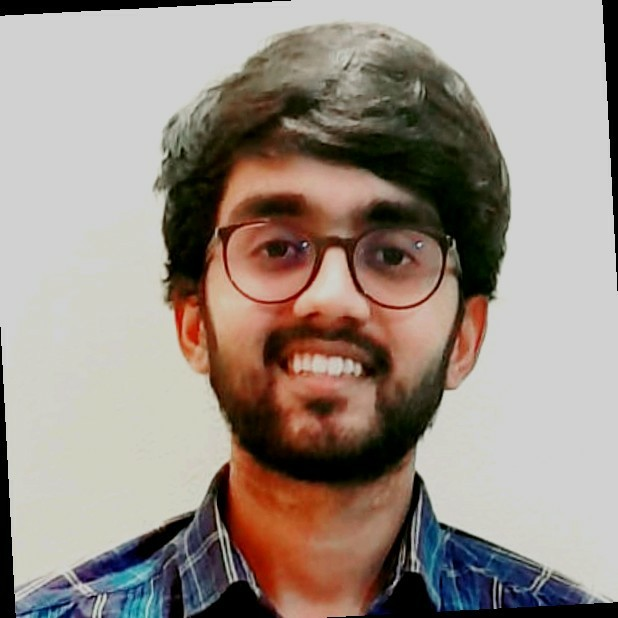
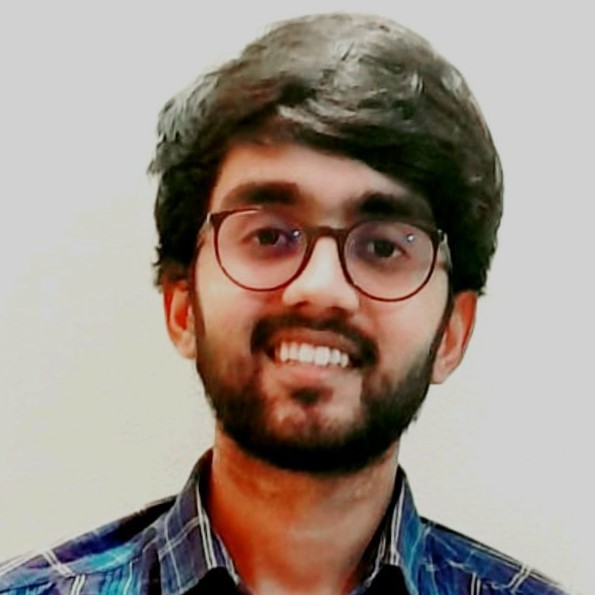
minor quality changes

Changed region(s): [[0.0, 0.0, 1.0, 1.0], [0.9681, 0.0, 1.0, 0.484], [0.0, 0.0, 0.4235, 0.0303]]

diff --git a/VData/static/js/prism.js b/VData/static/js/prism.js
@@ -1,0 +1,4 @@
+/* PrismJS 1.29.0
+https://prismjs.com/download.html#themes=prism-solarizedlight&languages=python */
+var _self="undefined"!=typeof window?window:"undefined"!=typeof WorkerGlobalScope&&self instanceof WorkerGlobalScope?self:{},Prism=function(e){var n=/(?:^|\s)lang(?:uage)?-([\w-]+)(?=\s|$)/i,t=0,r={},a={manual:e.Prism&&e.Prism.manual,disableWorkerMessageHandler:e.Prism&&e.Prism.disableWorkerMessageHandler,util:{encode:function e(n){return n instanceof i?new i(n.type,e(n.content),n.alias):Array.isArray(n)?n.map(e):n.replace(/&/g,"&amp;").replace(/</g,"&lt;").replace(/\u00a0/g," ")},type:function(e){return Object.prototype.toString.call(e).slice(8,-1)},objId:function(e){return e.__id||Object.defineProperty(e,"__id",{value:++t}),e.__id},clone:function e(n,t){var r,i;switch(t=t||{},a.util.type(n)){case"Object":if(i=a.util.objId(n),t[i])return t[i];for(var l in r={},t[i]=r,n)n.hasOwnProperty(l)&&(r[l]=e(n[l],t));return r;case"Array":return i=a.util.objId(n),t[i]?t[i]:(r=[],t[i]=r,n.forEach((function(n,a){r[a]=e(n,t)})),r);default:return n}},getLanguage:function(e){for(;e;){var t=n.exec(e.className);if(t)return t[1].toLowerCase();e=e.parentElement}return"none"},setLanguage:function(e,t){e.className=e.className.replace(RegExp(n,"gi"),""),e.classList.add("language-"+t)},currentScript:function(){if("undefined"==typeof document)return null;if("currentScript"in document)return document.currentScript;try{throw new Error}catch(r){var e=(/at [^(\r\n]*\((.*):[^:]+:[^:]+\)$/i.exec(r.stack)||[])[1];if(e){var n=document.getElementsByTagName("script");for(var t in n)if(n[t].src==e)return n[t]}return null}},isActive:function(e,n,t){for(var r="no-"+n;e;){var a=e.classList;if(a.contains(n))return!0;if(a.contains(r))return!1;e=e.parentElement}return!!t}},languages:{plain:r,plaintext:r,text:r,txt:r,extend:function(e,n){var t=a.util.clone(a.languages[e]);for(var r in n)t[r]=n[r];return t},insertBefore:function(e,n,t,r){var i=(r=r||a.languages)[e],l={};for(var o in i)if(i.hasOwnProperty(o)){if(o==n)for(var s in t)t.hasOwnProperty(s)&&(l[s]=t[s]);t.hasOwnProperty(o)||(l[o]=i[o])}var u=r[e];return r[e]=l,a.languages.DFS(a.languages,(function(n,t){t===u&&n!=e&&(this[n]=l)})),l},DFS:function e(n,t,r,i){i=i||{};var l=a.util.objId;for(var o in n)if(n.hasOwnProperty(o)){t.call(n,o,n[o],r||o);var s=n[o],u=a.util.type(s);"Object"!==u||i[l(s)]?"Array"!==u||i[l(s)]||(i[l(s)]=!0,e(s,t,o,i)):(i[l(s)]=!0,e(s,t,null,i))}}},plugins:{},highlightAll:function(e,n){a.highlightAllUnder(document,e,n)},highlightAllUnder:function(e,n,t){var r={callback:t,container:e,selector:'code[class*="language-"], [class*="language-"] code, code[class*="lang-"], [class*="lang-"] code'};a.hooks.run("before-highlightall",r),r.elements=Array.prototype.slice.apply(r.container.querySelectorAll(r.selector)),a.hooks.run("before-all-elements-highlight",r);for(var i,l=0;i=r.elements[l++];)a.highlightElement(i,!0===n,r.callback)},highlightElement:function(n,t,r){var i=a.util.getLanguage(n),l=a.languages[i];a.util.setLanguage(n,i);var o=n.parentElement;o&&"pre"===o.nodeName.toLowerCase()&&a.util.setLanguage(o,i);var s={element:n,language:i,grammar:l,code:n.textContent};function u(e){s.highlightedCode=e,a.hooks.run("before-insert",s),s.element.innerHTML=s.highlightedCode,a.hooks.run("after-highlight",s),a.hooks.run("complete",s),r&&r.call(s.element)}if(a.hooks.run("before-sanity-check",s),(o=s.element.parentElement)&&"pre"===o.nodeName.toLowerCase()&&!o.hasAttribute("tabindex")&&o.setAttribute("tabindex","0"),!s.code)return a.hooks.run("complete",s),void(r&&r.call(s.element));if(a.hooks.run("before-highlight",s),s.grammar)if(t&&e.Worker){var c=new Worker(a.filename);c.onmessage=function(e){u(e.data)},c.postMessage(JSON.stringify({language:s.language,code:s.code,immediateClose:!0}))}else u(a.highlight(s.code,s.grammar,s.language));else u(a.util.encode(s.code))},highlight:function(e,n,t){var r={code:e,grammar:n,language:t};if(a.hooks.run("before-tokenize",r),!r.grammar)throw new Error('The language "'+r.language+'" has no grammar.');return r.tokens=a.tokenize(r.code,r.grammar),a.hooks.run("after-tokenize",r),i.stringify(a.util.encode(r.tokens),r.language)},tokenize:function(e,n){var t=n.rest;if(t){for(var r in t)n[r]=t[r];delete n.rest}var a=new s;return u(a,a.head,e),o(e,a,n,a.head,0),function(e){for(var n=[],t=e.head.next;t!==e.tail;)n.push(t.value),t=t.next;return n}(a)},hooks:{all:{},add:function(e,n){var t=a.hooks.all;t[e]=t[e]||[],t[e].push(n)},run:function(e,n){var t=a.hooks.all[e];if(t&&t.length)for(var r,i=0;r=t[i++];)r(n)}},Token:i};function i(e,n,t,r){this.type=e,this.content=n,this.alias=t,this.length=0|(r||"").length}function l(e,n,t,r){e.lastIndex=n;var a=e.exec(t);if(a&&r&&a[1]){var i=a[1].length;a.index+=i,a[0]=a[0].slice(i)}return a}function o(e,n,t,r,s,g){for(var f in t)if(t.hasOwnProperty(f)&&t[f]){var h=t[f];h=Array.isArray(h)?h:[h];for(var d=0;d<h.length;++d){if(g&&g.cause==f+","+d)return;var v=h[d],p=v.inside,m=!!v.lookbehind,y=!!v.greedy,k=v.alias;if(y&&!v.pattern.global){var x=v.pattern.toString().match(/[imsuy]*$/)[0];v.pattern=RegExp(v.pattern.source,x+"g")}for(var b=v.pattern||v,w=r.next,A=s;w!==n.tail&&!(g&&A>=g.reach);A+=w.value.length,w=w.next){var E=w.value;if(n.length>e.length)return;if(!(E instanceof i)){var P,L=1;if(y){if(!(P=l(b,A,e,m))||P.index>=e.length)break;var S=P.index,O=P.index+P[0].length,j=A;for(j+=w.value.length;S>=j;)j+=(w=w.next).value.length;if(A=j-=w.value.length,w.value instanceof i)continue;for(var C=w;C!==n.tail&&(j<O||"string"==typeof C.value);C=C.next)L++,j+=C.value.length;L--,E=e.slice(A,j),P.index-=A}else if(!(P=l(b,0,E,m)))continue;S=P.index;var N=P[0],_=E.slice(0,S),M=E.slice(S+N.length),W=A+E.length;g&&W>g.reach&&(g.reach=W);var z=w.prev;if(_&&(z=u(n,z,_),A+=_.length),c(n,z,L),w=u(n,z,new i(f,p?a.tokenize(N,p):N,k,N)),M&&u(n,w,M),L>1){var I={cause:f+","+d,reach:W};o(e,n,t,w.prev,A,I),g&&I.reach>g.reach&&(g.reach=I.reach)}}}}}}function s(){var e={value:null,prev:null,next:null},n={value:null,prev:e,next:null};e.next=n,this.head=e,this.tail=n,this.length=0}function u(e,n,t){var r=n.next,a={value:t,prev:n,next:r};return n.next=a,r.prev=a,e.length++,a}function c(e,n,t){for(var r=n.next,a=0;a<t&&r!==e.tail;a++)r=r.next;n.next=r,r.prev=n,e.length-=a}if(e.Prism=a,i.stringify=function e(n,t){if("string"==typeof n)return n;if(Array.isArray(n)){var r="";return n.forEach((function(n){r+=e(n,t)})),r}var i={type:n.type,content:e(n.content,t),tag:"span",classes:["token",n.type],attributes:{},language:t},l=n.alias;l&&(Array.isArray(l)?Array.prototype.push.apply(i.classes,l):i.classes.push(l)),a.hooks.run("wrap",i);var o="";for(var s in i.attributes)o+=" "+s+'="'+(i.attributes[s]||"").replace(/"/g,"&quot;")+'"';return"<"+i.tag+' class="'+i.classes.join(" ")+'"'+o+">"+i.content+"</"+i.tag+">"},!e.document)return e.addEventListener?(a.disableWorkerMessageHandler||e.addEventListener("message",(function(n){var t=JSON.parse(n.data),r=t.language,i=t.code,l=t.immediateClose;e.postMessage(a.highlight(i,a.languages[r],r)),l&&e.close()}),!1),a):a;var g=a.util.currentScript();function f(){a.manual||a.highlightAll()}if(g&&(a.filename=g.src,g.hasAttribute("data-manual")&&(a.manual=!0)),!a.manual){var h=document.readyState;"loading"===h||"interactive"===h&&g&&g.defer?document.addEventListener("DOMContentLoaded",f):window.requestAnimationFrame?window.requestAnimationFrame(f):window.setTimeout(f,16)}return a}(_self);"undefined"!=typeof module&&module.exports&&(module.exports=Prism),"undefined"!=typeof global&&(global.Prism=Prism);
+Prism.languages.python={comment:{pattern:/(^|[^\\])#.*/,lookbehind:!0,greedy:!0},"string-interpolation":{pattern:/(?:f|fr|rf)(?:("""|''')[\s\S]*?\1|("|')(?:\\.|(?!\2)[^\\\r\n])*\2)/i,greedy:!0,inside:{interpolation:{pattern:/((?:^|[^{])(?:\{\{)*)\{(?!\{)(?:[^{}]|\{(?!\{)(?:[^{}]|\{(?!\{)(?:[^{}])+\})+\})+\}/,lookbehind:!0,inside:{"format-spec":{pattern:/(:)[^:(){}]+(?=\}$)/,lookbehind:!0},"conversion-option":{pattern:/![sra](?=[:}]$)/,alias:"punctuation"},rest:null}},string:/[\s\S]+/}},"triple-quoted-string":{pattern:/(?:[rub]|br|rb)?("""|''')[\s\S]*?\1/i,greedy:!0,alias:"string"},string:{pattern:/(?:[rub]|br|rb)?("|')(?:\\.|(?!\1)[^\\\r\n])*\1/i,greedy:!0},function:{pattern:/((?:^|\s)def[ \t]+)[a-zA-Z_]\w*(?=\s*\()/g,lookbehind:!0},"class-name":{pattern:/(\bclass\s+)\w+/i,lookbehind:!0},decorator:{pattern:/(^[\t ]*)@\w+(?:\.\w+)*/m,lookbehind:!0,alias:["annotation","punctuation"],inside:{punctuation:/\./}},keyword:/\b(?:_(?=\s*:)|and|as|assert|async|await|break|case|class|continue|def|del|elif|else|except|exec|finally|for|from|global|if|import|in|is|lambda|match|nonlocal|not|or|pass|print|raise|return|try|while|with|yield)\b/,builtin:/\b(?:__import__|abs|all|any|apply|ascii|basestring|bin|bool|buffer|bytearray|bytes|callable|chr|classmethod|cmp|coerce|compile|complex|delattr|dict|dir|divmod|enumerate|eval|execfile|file|filter|float|format|frozenset|getattr|globals|hasattr|hash|help|hex|id|input|int|intern|isinstance|issubclass|iter|len|list|locals|long|map|max|memoryview|min|next|object|oct|open|ord|pow|property|range|raw_input|reduce|reload|repr|reversed|round|set|setattr|slice|sorted|staticmethod|str|sum|super|tuple|type|unichr|unicode|vars|xrange|zip)\b/,boolean:/\b(?:False|None|True)\b/,number:/\b0(?:b(?:_?[01])+|o(?:_?[0-7])+|x(?:_?[a-f0-9])+)\b|(?:\b\d+(?:_\d+)*(?:\.(?:\d+(?:_\d+)*)?)?|\B\.\d+(?:_\d+)*)(?:e[+-]?\d+(?:_\d+)*)?j?(?!\w)/i,operator:/[-+%=]=?|!=|:=|\*\*?=?|\/\/?=?|<[<=>]?|>[=>]?|[&|^~]/,punctuation:/[{}[\];(),.:]/},Prism.languages.python["string-interpolation"].inside.interpolation.inside.rest=Prism.languages.python,Prism.languages.py=Prism.languages.python;

diff --git a/VData/static/css/prism.css b/VData/static/css/prism.css
@@ -1,0 +1,167 @@
+/**
+ * VS theme by Andrew Lock (https://andrewlock.net)
+ * Inspired by Visual Studio syntax coloring
+ */
+
+ code[class*="language-"],
+ pre[class*="language-"] {
+     color: #393A34;
+     font-family: "Consolas", "Bitstream Vera Sans Mono", "Courier New", Courier, monospace;
+     direction: ltr;
+     text-align: left;
+     white-space: pre;
+     word-spacing: normal;
+     word-break: normal;
+     font-size: .9em;
+     line-height: 1.2em;
+ 
+     -moz-tab-size: 4;
+     -o-tab-size: 4;
+     tab-size: 4;
+ 
+     -webkit-hyphens: none;
+     -moz-hyphens: none;
+     -ms-hyphens: none;
+     hyphens: none;
+ }
+ 
+ pre > code[class*="language-"] {
+     font-size: 1em;
+ }
+ 
+ pre[class*="language-"]::-moz-selection, pre[class*="language-"] ::-moz-selection,
+ code[class*="language-"]::-moz-selection, code[class*="language-"] ::-moz-selection {
+     background: #C1DEF1;
+ }
+ 
+ pre[class*="language-"]::selection, pre[class*="language-"] ::selection,
+ code[class*="language-"]::selection, code[class*="language-"] ::selection {
+     background: #C1DEF1;
+ }
+ 
+ /* Code blocks */
+ pre[class*="language-"] {
+     padding: 1em;
+     overflow: auto;
+     border: 1px solid #dddddd;
+     background-color: white;
+ }
+ 
+ /* Inline code */
+ :not(pre) > code[class*="language-"] {
+     padding: .2em;
+     padding-top: 1px;
+     padding-bottom: 1px;
+     background: #f8f8f8;
+     border: 1px solid #dddddd;
+ }
+ 
+ .token.comment,
+ .token.prolog,
+ .token.doctype,
+ .token.cdata {
+     color: #008000;
+     font-style: italic;
+ }
+ 
+ .token.namespace {
+     opacity: .7;
+ }
+ 
+ .token.string {
+     color: #A31515;
+ }
+ 
+ .token.punctuation,
+ .token.operator {
+     color: #393A34; /* no highlight */
+ }
+ 
+ .token.url,
+ .token.symbol,
+ .token.number,
+ .token.boolean,
+ .token.variable,
+ .token.constant,
+ .token.inserted {
+     color: #36acaa;
+ }
+ 
+ .token.atrule,
+ .token.keyword,
+ .token.attr-value,
+ .language-autohotkey .token.selector,
+ .language-json .token.boolean,
+ .language-json .token.number,
+ code[class*="language-css"] {
+     color: #0000ff;
+ }
+ 
+ .token.function {
+     color: #393A34;
+ }
+ 
+ .token.deleted,
+ .language-autohotkey .token.tag {
+     color: #9a050f;
+ }
+ 
+ .token.selector,
+ .language-autohotkey .token.keyword {
+     color: #00009f;
+ }
+ 
+ .token.important {
+     color: #e90;
+ }
+ 
+ .token.important,
+ .token.bold {
+     font-weight: bold;
+ }
+ 
+ .token.italic {
+     font-style: italic;
+ }
+ 
+ .token.class-name,
+ .language-json .token.property {
+     color: #2B91AF;
+ }
+ 
+ .token.tag,
+ .token.selector {
+     color: #800000;
+ }
+ 
+ .token.attr-name,
+ .token.property,
+ .token.regex,
+ .token.entity {
+     color: #ff0000;
+ }
+ 
+ .token.directive.tag .tag {
+     background: #ffff00;
+     color: #393A34;
+ }
+ 
+ /* overrides color-values for the Line Numbers plugin
+  * http://prismjs.com/plugins/line-numbers/
+  */
+ .line-numbers.line-numbers .line-numbers-rows {
+     border-right-color: #a5a5a5;
+ }
+ 
+ .line-numbers .line-numbers-rows > span:before {
+     color: #2B91AF;
+ }
+ 
+ /* overrides color-values for the Line Highlight plugin
+ * http://prismjs.com/plugins/line-highlight/
+ */
+ .line-highlight.line-highlight {
+     background: rgba(193, 222, 241, 0.2);
+     background: -webkit-linear-gradient(left, rgba(193, 222, 241, 0.2) 70%, rgba(221, 222, 241, 0));
+     background: linear-gradient(to right, rgba(193, 222, 241, 0.2) 70%, rgba(221, 222, 241, 0));
+ }

diff --git a/VData/templates/base.html b/VData/templates/base.html
@@ -33,6 +33,12 @@
 
         <!-- Icons css -->
         <link href="{% static 'assets/css/icons.min.css' %}" rel="stylesheet" type="text/css" />
+
+
+        <!-- code highlight css -->
+        <link href="{% static 'css/prism.css' %}" rel="stylesheet" type="text/css" />
+        <script src="{% static 'js/prism.js' %}"></script>
+        
     </head>
 
     <body>
@@ -335,10 +341,8 @@
                                                 <!-- <button class="btn-copy-clipboard" data-clipboard-action="copy">
                                                     Copy
                                                 </button> -->
-                                                <pre class="mb-0" style="height: 304px; border-bottom: 1px solid var(--ct-gray-300);">
-<code class="html escape language-python">
-{{file_content | safe}}
-</code>
+                                                <pre class="mb-0 html escape" style="height: 304px; border-bottom: 1px solid var(--ct-gray-300);">
+<code class="language-python">{{file_content | safe}}</code>
                                                     </pre>
     
                                                 <!-- end highlight-->
@@ -387,7 +391,7 @@
                                         {% endblock dataset %}
 
                                     </div> <!-- end table-responsive-->
-                                    <div id="#datasetButtonGroup" style="border: 1px solid var(--ct-gray-300);" class="p-2"> 
+                                    <div id="#datasetButtonGroup" style="border: 1px solid var(--ct-gray-300); display: flex; justify-content: space-evenly;" class="p-2"> 
                                     <button class="btn-copy-clipboard" onclick="location.href='{% url 'downloadDataset' %}'" style="font-size: 0.875rem;">Download Dataset</button>
                                     <button class="btn-copy-clipboard" onclick="location.href='{% url 'showFulldataset' %}'" style="font-size: 0.875rem;">Show Full Dataset</button>
                                     </div>
@@ -1140,8 +1144,13 @@
             $("table").addClass("table table-centered table-nowrap table-hover table-bordered mb-0");
             $("h5").addClass("font-14 my-1 fw-normal");
             $("table span").addClass("text-muted font-13");
-            hljs.highlightAll();            
+            Prism.highlightAll();
+            /*
+            {% comment %} hljs.highlightAll(); {% endcomment %}
+            monaco.editor.colorizeElement(document.getElementById('CodeBlock'));   */         
         </script>
+
+
 
     </body>
 

diff --git a/VData/static/assets_landing/css/theme-blue.css b/VData/static/assets_landing/css/theme-blue.css
@@ -180,7 +180,7 @@ filter: none;
 display: block;
 }
 
-.btn1,
+/* .btn1,
 input::file-selector-button {
   text-decoration: none;
   background-color: #303841;
@@ -190,16 +190,37 @@ input::file-selector-button {
   border-radius: 8%;
   outline: none;
   transition: 0.3s;
+} */
+
+.btn1,
+input::file-selector-button {
+	font-size: 1em;
+    font-weight: 700;
+    line-height: 3.125;
+    border: none;
+    border-radius: 25px;
+    padding: 0 40px;
+    display: inline-block;
+    color: #fff;
+    text-align: center;
+    background: #F88D5E;
+    -webkit-transition: all .5s ease;
+    -moz-transition: all .5s ease;
+    transition: all .5s ease;
+
+	visibility: visible;
+    animation-duration: 0.5s;
+    animation-delay: 0.6s;
+    animation-name: fadeInUp;
+	border: 1px solid transparent;
 }
 
 .btn1:hover,
 input::file-selector-button:hover {
   text-decoration: none;
-  background-color: #3695fa;
-  color: #ffffff;
-  padding: 10px 20px;
-  border: none;
-  border-radius: 25%;
+  background-color: #fff;
+  color: #F88D5E;
+  border: 1px solid #F88D5E;
 }
 input[type="file"] {
     display: inline;

diff --git a/VData/templates/landing.html b/VData/templates/landing.html
@@ -656,7 +656,7 @@
 		<div class="close-toggle"><a href="#" onclick="toggle()"><em class="ti ti-close"></em></a></div>
 		
 		<h2>Upload your dataset here</h2>
-		<form method="post" enctype="multipart/form-data">
+		<form method="post" enctype="multipart/form-data" style="display: flex; justify-content: space-between;">
           {% csrf_token %}
           <input type="file" accept=".csv" name="myfile" style="width: 80%;">
           <button class="btn1" type="submit">Upload</button>
